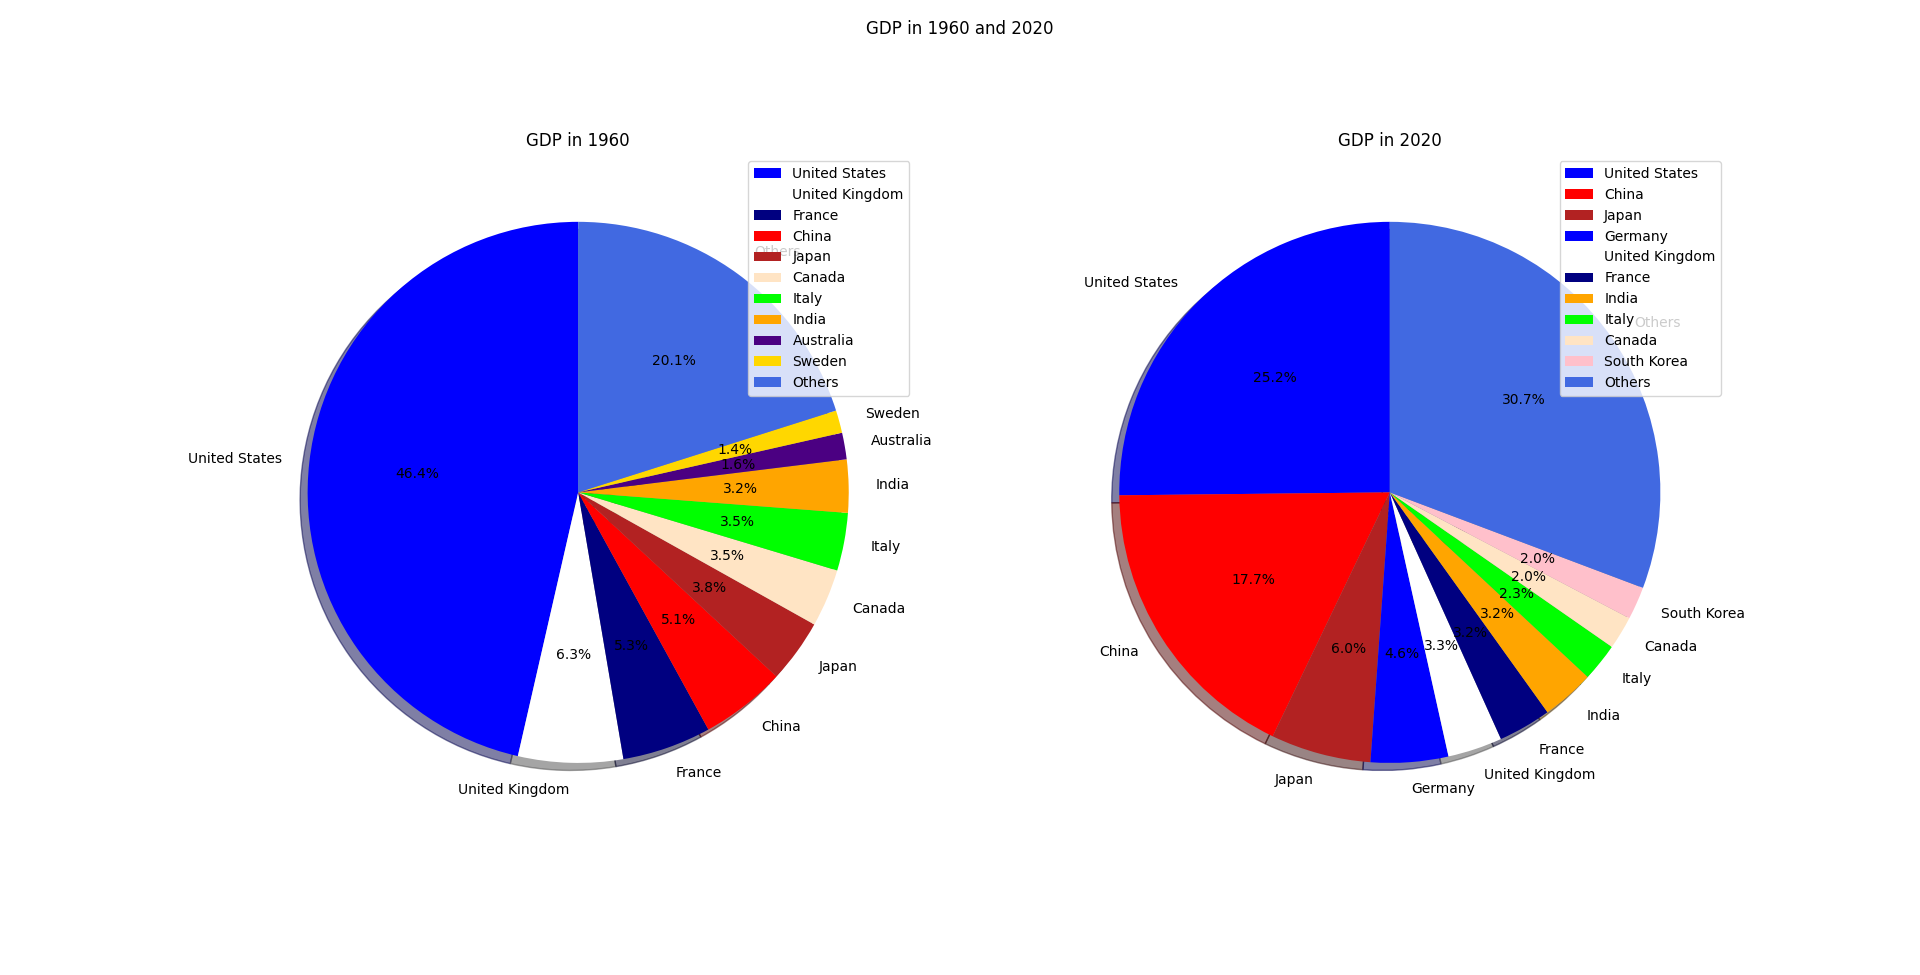
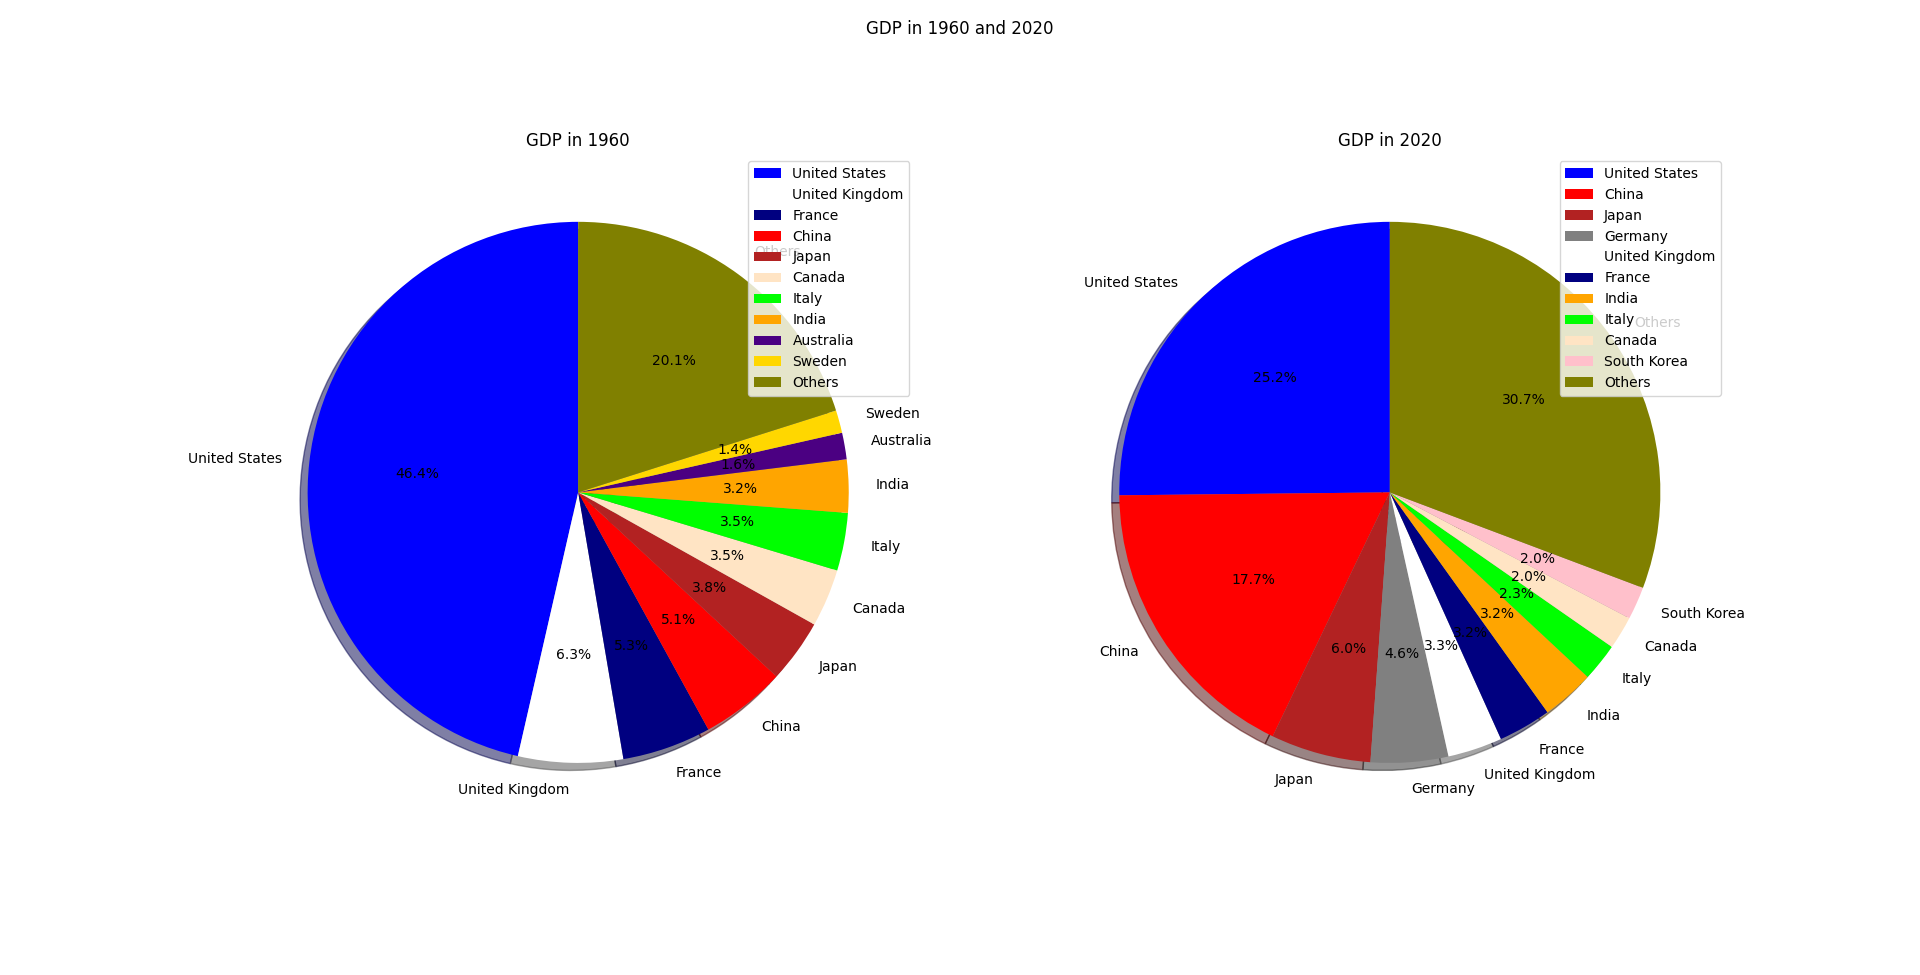
Small changes including
adding dict of color
added photo of others

Changed region(s): [[0.6875, 0.2154, 0.875, 0.8], [0.2812, 0.2154, 0.4375, 0.5231], [0.8125, 0.2154, 0.8438, 0.2462]]

diff --git a/Code files/visualization.py b/Code files/visualization.py
@@ -7,7 +7,7 @@ Color_By_Country = {
     "United States": "b",
     "China": "r",
     "United Kingdom": "w",
-    "Germany": "b",
+    "Germany": "grey",
     "India": "orange",
     "France": "navy",
     "Japan": "firebrick",
@@ -15,8 +15,19 @@ Color_By_Country = {
     "Italy": "lime",
     "Australia": "indigo",
     "Sweden": "gold",
-    "Others": "royalblue",
+    "Others": "olive",
     "South Korea": "pink",
+    "Brazil": "cyan",
+    "South Sudan": "tan",
+    "Turkey": "chocolate",
+    "Mexico": "fuchsia",
+    "Spain": "yellow",
+    "Netherlands": "plum",
+    "Russia": "wheat",
+    "Indonesia": "darkgreen",
+    "Switzerland": "darkblue",
+    "Saudi Arabia": "darkred",
+
 
 }
 
@@ -50,13 +61,13 @@ def GDP_pie_plot(df):
     df_1960 = df[df["Year"] == 1960].sort_values(by=['GDP Total'], ascending=False)
     df_2020 = df[df["Year"] == 2020].sort_values(by=['GDP Total'], ascending=False)
 
-    GDP_1960= [c for c in df_1960.head(10)["GDP Total"]]
-    GDP_1960.append(df_1960["GDP Total"].sum()-df_1960.head(10)["GDP Total"].sum())
-    list_of_labels_1960 = [c for c in df_1960.head(10)["Country"]]
+    GDP_1960= [c for c in df_1960.head(15)["GDP Total"]]
+    GDP_1960.append(df_1960["GDP Total"].sum()-df_1960.head(15)["GDP Total"].sum())
+    list_of_labels_1960 = [c for c in df_1960.head(15)["Country"]]
     list_of_labels_1960.append("Others")
-    GDP_2020= [c for c in df_2020.head(10)["GDP Total"]]
-    GDP_2020.append(df_2020["GDP Total"].sum()-df_2020.head(10)["GDP Total"].sum())
-    list_of_labels_2020 = [c for c in df_2020.head(10)["Country"]]
+    GDP_2020= [c for c in df_2020.head(15)["GDP Total"]]
+    GDP_2020.append(df_2020["GDP Total"].sum()-df_2020.head(15)["GDP Total"].sum())
+    list_of_labels_2020 = [c for c in df_2020.head(15)["Country"]]
     list_of_labels_2020.append("Others")
 
 
@@ -83,6 +94,26 @@ def GDP_pie_plot(df):
     axes[1].set_title("GDP in 2020")
     fig.suptitle("GDP in 1960 and 2020")
     plt.show()
+
+
+    df_2020 = df_2020.tail(-15)
+    sum_of_gdp_2020= df_2020["GDP Total"].sum()
+    df_2020 = df_2020[df_2020["GDP Total"]>=300000]
+    others_gdp = [c for c in df_2020["GDP Total"]]
+    others_gdp_names = [c for c in df_2020["Country"]]
+    others_gdp.append(sum_of_gdp_2020-df_2020["GDP Total"].sum())
+    others_gdp_names.append("Others")
+    plt.pie(others_gdp,
+            labels=others_gdp_names,
+            shadow=True,
+            startangle=90,
+            autopct="%1.1f%%",
+            colors=ARR_COLOR
+            )
+    plt.legend(loc="best")
+    plt.title("GDP in 2020 (Others)")
+    plt.show()
+
 
 
 ##pie chart
@@ -301,6 +332,6 @@ if __name__ == "__main__":
     df = df.fillna(0)
     # line_plot(df)
     # mix_plot(df)
-    #GDP_pie_plot(df)
+    GDP_pie_plot(df)
     #sum_of_gdp_bar_graph(df)
-    GDP_total_world_graph(df)
+    #GDP_total_world_graph(df)
